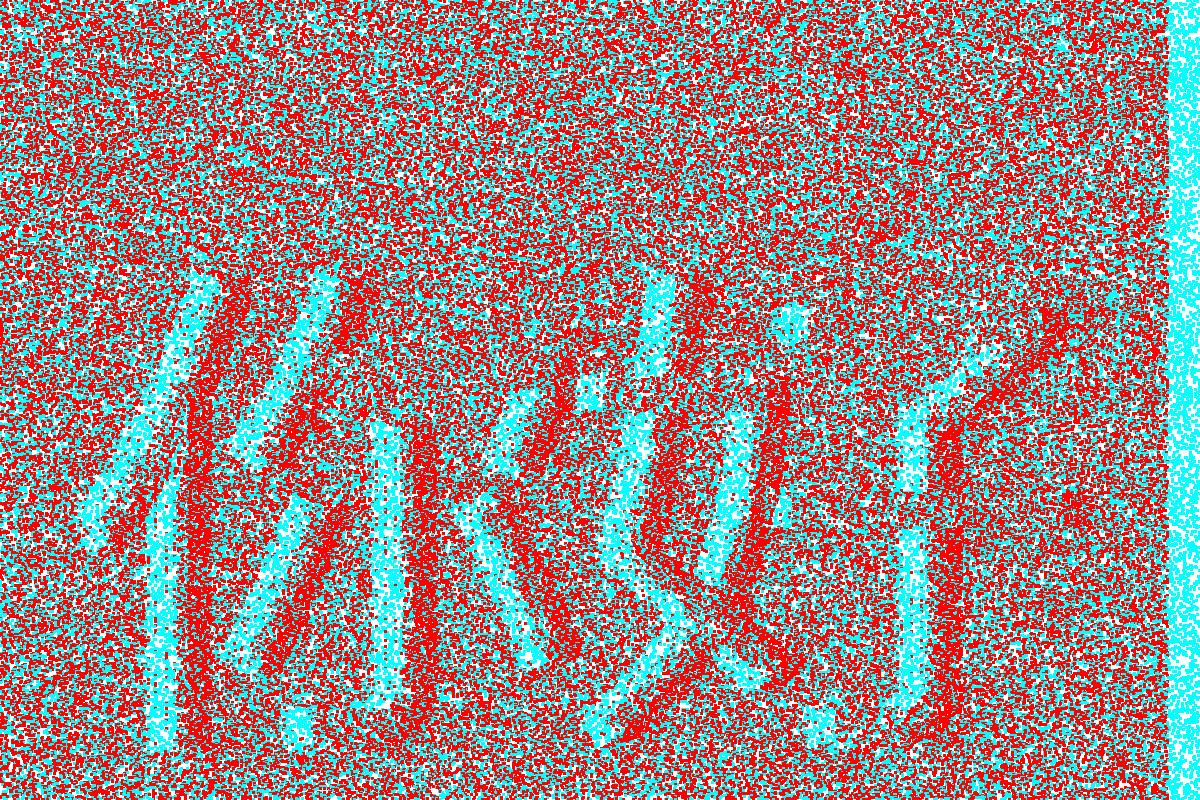
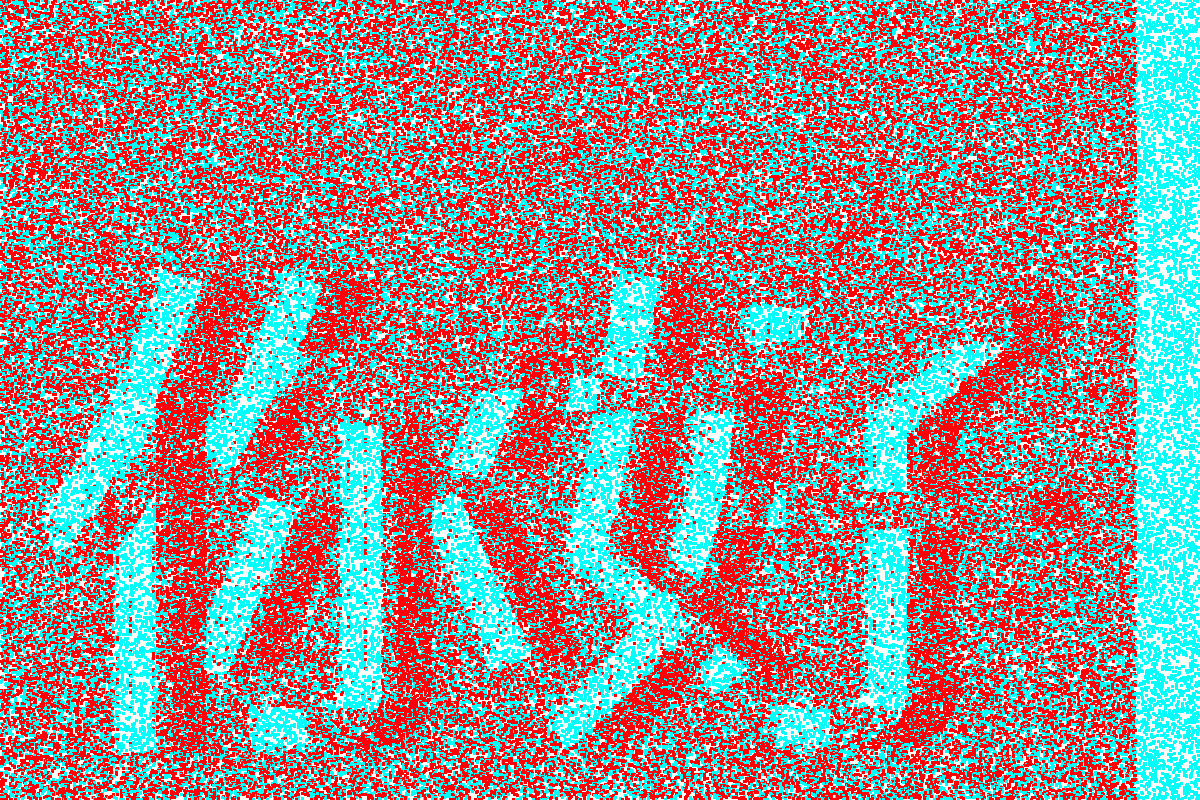
Small Adjustment

diff --git a/rds_chinese_character_generator.py b/rds_chinese_character_generator.py
@@ -203,7 +203,7 @@ if __name__ == "__main__":
         (8, "shallow"),  # shallow depth
         (16, "medium"),  # medium depth (default)
         (24, "deep"),  # deep depth
-        (32, "very_deep"),  # very deep depth
+        (64, "very_deep"),  # very deep depth
     ]
 
     for disparity, label in depth_variations:

diff --git a/README.md b/README.md
@@ -141,7 +141,7 @@ If no Chinese font is found, it will use the default font (which may not display
 ### Depth Variations
 Try viewing the different depth files to see how disparity affects the 3D effect:
 - Shallow depth (8px) is easier to fuse but less dramatic
-- Deep depth (32px) is more impressive but may be harder to see
+- Deep depth (64px) is more impressive but may be harder to see
 
 ## Technical Details
 
